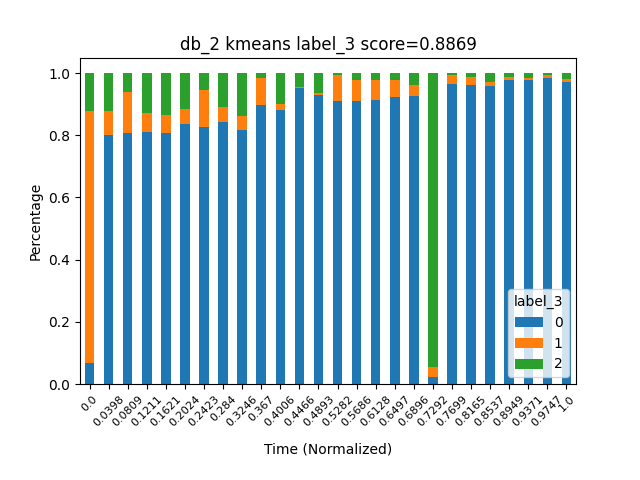
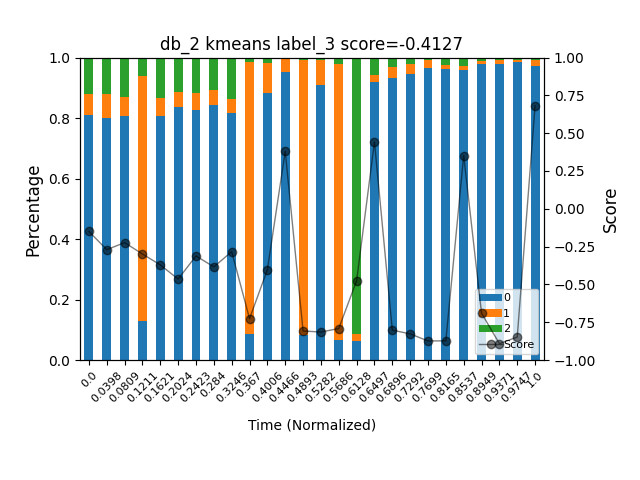
v0.5

diff --git a/main.py b/main.py
@@ -23,7 +23,6 @@ if __name__ == '__main__':
     parser = ArgumentParser()
     parser.add_argument('--model', type=str, default='kmeans')
     parser.add_argument('--db', type=int, default=1, help='index of the db')
-    parser.add_argument('--clean', type=bool, default=False, help='clean all the labels before processing')
     parser.add_argument('--retrain', type=bool, default=False, help='retrain the model even if the results are exist')
     opt = parser.parse_args()
     
@@ -59,39 +58,51 @@ if __name__ == '__main__':
     print(f'Start clustering {data_path}')
     
     try:
-        # manually clear the cached labels
-        if opt.clean:
-            data = data.loc[:, ~data.columns.str.contains('^label_')]
-        
-        # get unique time
-        time = pd.unique(data['time'])
-        
-        # get corresponding time-sensitive features
-        if len(ts_feats) == 1:
-            Xs = [data.loc[data['time']==t, ts_feats].to_numpy().reshape(-1, 1) for t in time]
+        score_path = os.path.join(db_model_dir, 'score_dict.pkl')
+        if os.path.exists(score_path) and not opt.retrain:
+            with open(score_path, 'rb') as dict_f:
+                score_dict = pickle.load(dict_f)
+            print('Loaded data from cache!')
+            
         else:
-            Xs = [data.loc[data['time']==t, ts_feats].to_numpy() for t in time]
-        
-        if model_name == 'kmeans':
-            k_start, k_end = config['kmeans_k']
-            k_range = range(k_start, k_end+1)
-            score_dict = {}
-            for n_cluster in tqdm(k_range, total=len(k_range)):
-                model = KMeans(n_clusters=n_cluster)
-                labels = []
-                scores = []
-                for X in Xs:
-                    model.fit(X)
-                    label = model.predict(X)
-                    s_score = silhouette_score(X, label)
-                    labels.extend(list(label.flatten()))
-                    scores.append(s_score)
-                score_dict[f'label_{n_cluster}'] = np.mean(scores)
-                data[f'label_{n_cluster}'] = labels
-                with open(os.path.join(model_dir, f'{model_name}_db_{opt.db}_k_{n_cluster}.pkl'), 'wb') as f:
-                    pickle.dump(model, f)
-                data.to_csv(data_path, index=False)
-            print('Clustered peacefully!')
+            # manually clear the cached labels
+            if opt.retrain:
+                data = data.loc[:, ~data.columns.str.contains('^label_')]
+            
+            # get unique time
+            time = pd.unique(data['time'])
+            
+            # get corresponding time-sensitive features
+            if len(ts_feats) == 1:
+                Xs = [data.loc[data['time']==t, ts_feats].to_numpy().reshape(-1, 1) for t in time]
+            else:
+                Xs = [data.loc[data['time']==t, ts_feats].to_numpy() for t in time]
+            
+            if model_name == 'kmeans':
+                k_start, k_end = config['kmeans_k']
+                k_range = range(k_start, k_end+1)
+                score_dict = {}
+                for n_cluster in tqdm(k_range, total=len(k_range)):
+                    # model = KMeans(n_clusters=n_cluster)
+                    labels = []
+                    scores = []
+                    for X in Xs:
+                        model = KMeans(n_clusters=n_cluster)
+                        model.fit(X)
+                        # label = model.predict(X)
+                        label = model.labels_
+                        label = label[np.argsort(label)]
+                        s_score = silhouette_score(X, label)
+                        labels.extend(list(label.flatten()))
+                        scores.append(s_score)
+                    score_dict[f'label_{n_cluster}'] = scores
+                    data[f'label_{n_cluster}'] = labels
+                    # with open(os.path.join(model_dir, f'{model_name}_db_{opt.db}_k_{n_cluster}.pkl'), 'wb') as f:
+                    #     pickle.dump(model, f)
+                    data.to_csv(data_path, index=False)
+                with open(score_path, 'wb') as dict_f:
+                    pickle.dump(score_dict, dict_f)
+                print('Clustered peacefully!')
             
         plot_time_label(data, db_plot_dir, score_dict)
         print('Plotted successfully!')

diff --git a/utils/plot.py b/utils/plot.py
@@ -11,23 +11,38 @@ def plot_time_label(df, db_plot_dir, score_dict):
     labels = [x for x in df.columns if x.startswith('label_')]
     for i in trange(len(labels), desc='Plotting'):
         label = labels[i]
-        score = np.round_(score_dict[label], 4)
+        score = score_dict[label]
         plot_path = os.path.join(db_plot_dir, f'{label}.png')
         
         plt.clf()
+        fig, ax = plt.subplots()
         # Create a pivot table to calculate the percentage of each cluster at each time
         table = df.pivot_table(index='time', columns=label, aggfunc='size', fill_value=0)
         # Normalize the table by dividing each value by the sum of all values at that time
         table = table.div(table.sum(axis=1), axis=0)
         # Plot the table as a stacked bar plot
-        table.plot.bar(stacked=True)
+        table.plot.bar(stacked=True, ax=ax)
+        ax.set_ylim((0, 1))
+        
+        # Add Score plot
+        ax2 = ax.twinx()
+        ax2.autoscale(False)
+        ax2.set_ylim((-1, 1))
+        ax2.plot(score, label='Score', c='black', marker='o', linewidth=1, alpha=0.5)
+        l, lb = ax.get_legend_handles_labels()
+        l2, lb2 = ax2.get_legend_handles_labels()
+        legend = ax.legend(l + l2, lb + lb2, fontsize=8, ncol=1, handletextpad=0.1, columnspacing=0.2)
+        legend.set_zorder = 10
+        
         # Round xtick to 4 digits
         xtick_pos = plt.xticks()[0]
         xtick_t = [np.round_(float(t.get_text().split()[-1]), 4) for t in plt.xticks()[1]]
-        plt.xticks(xtick_pos, xtick_t, rotation=45, fontsize=8)
-        plt.title(f'{db_idx} {model_name} {label} score={score}')
-        plt.xlabel('Time (Normalized)', labelpad=10)
-        plt.subplots_adjust(bottom=0.2)
-        plt.ylabel('Percentage')
+        ax.set_xticks(xtick_pos, xtick_t, rotation=45, fontsize=8)
+
+        plt.title(f'{db_idx} {model_name} {label} score={np.round_(np.mean(score), 4)}')
+        ax.set_xlabel('Time (Normalized)', labelpad=10)
+        plt.subplots_adjust(bottom=0.25, right=0.85)
+        ax.set_ylabel('Percentage', fontsize=12)
+        ax2.set_ylabel('Score', fontsize=12)
         plt.savefig(plot_path)
         
